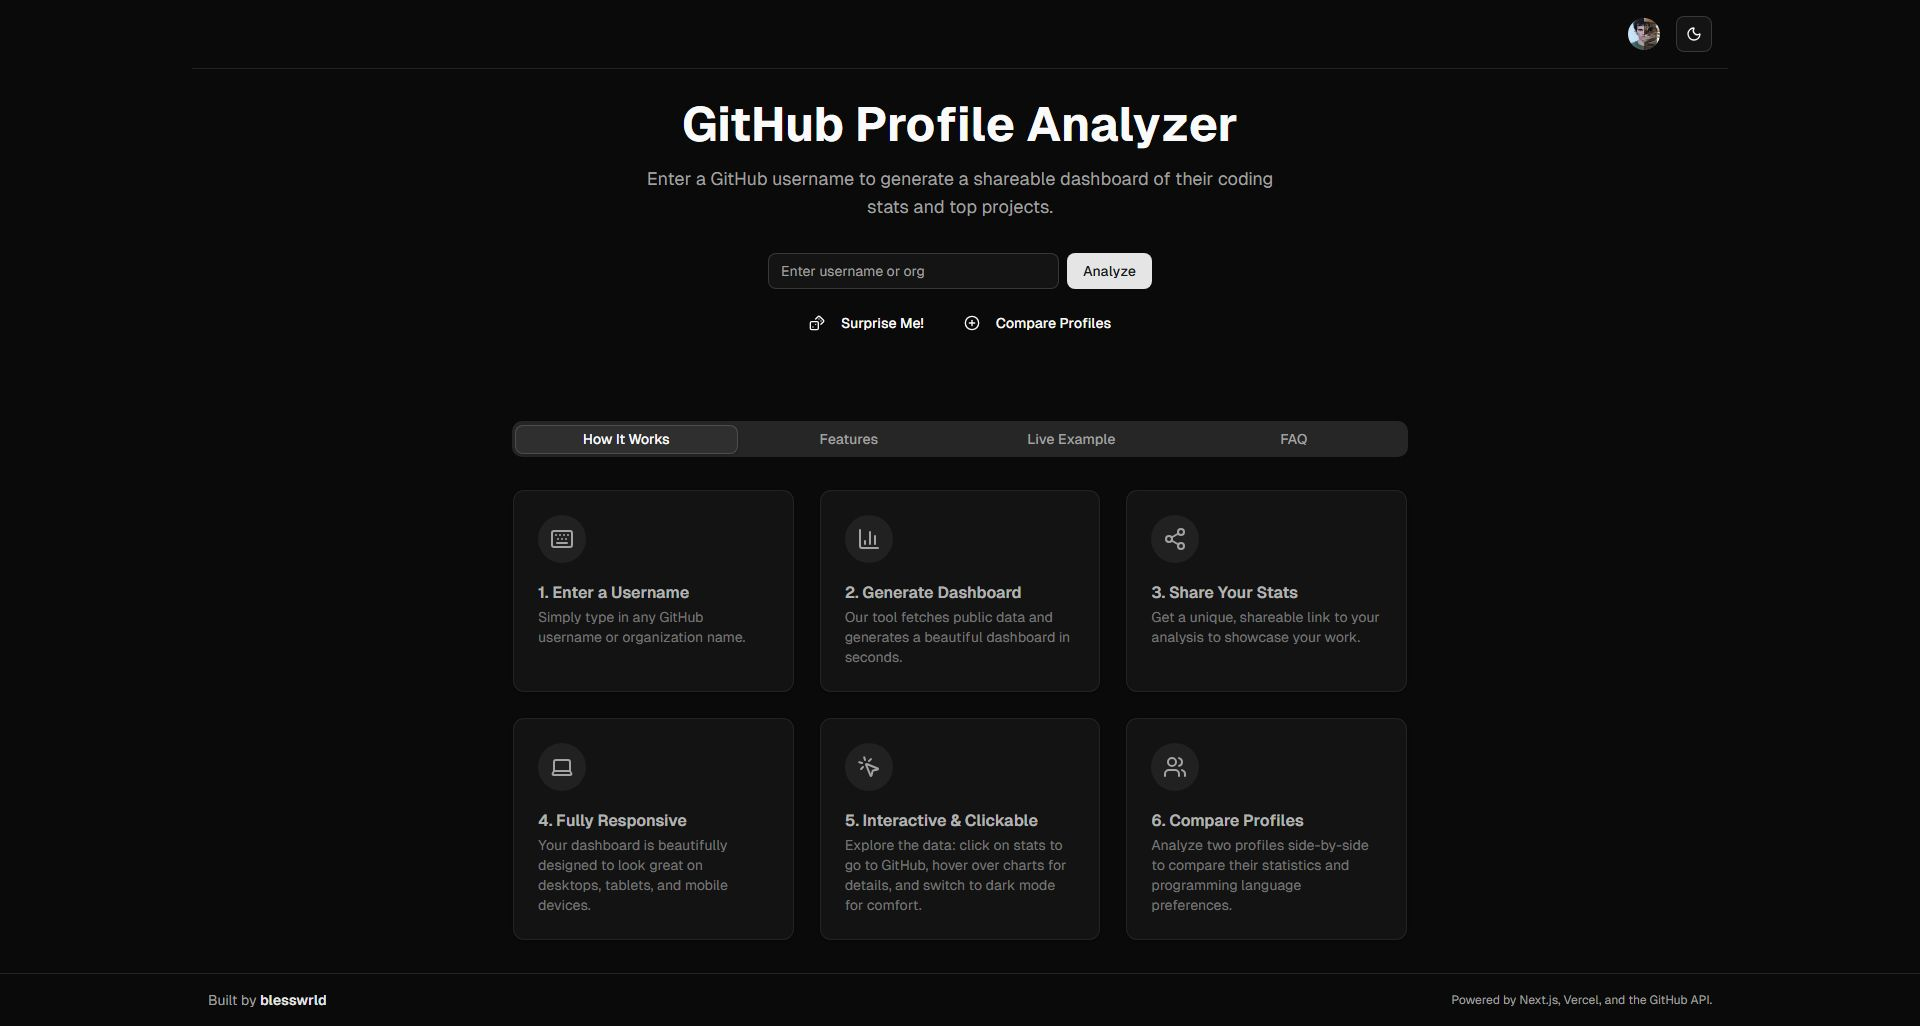
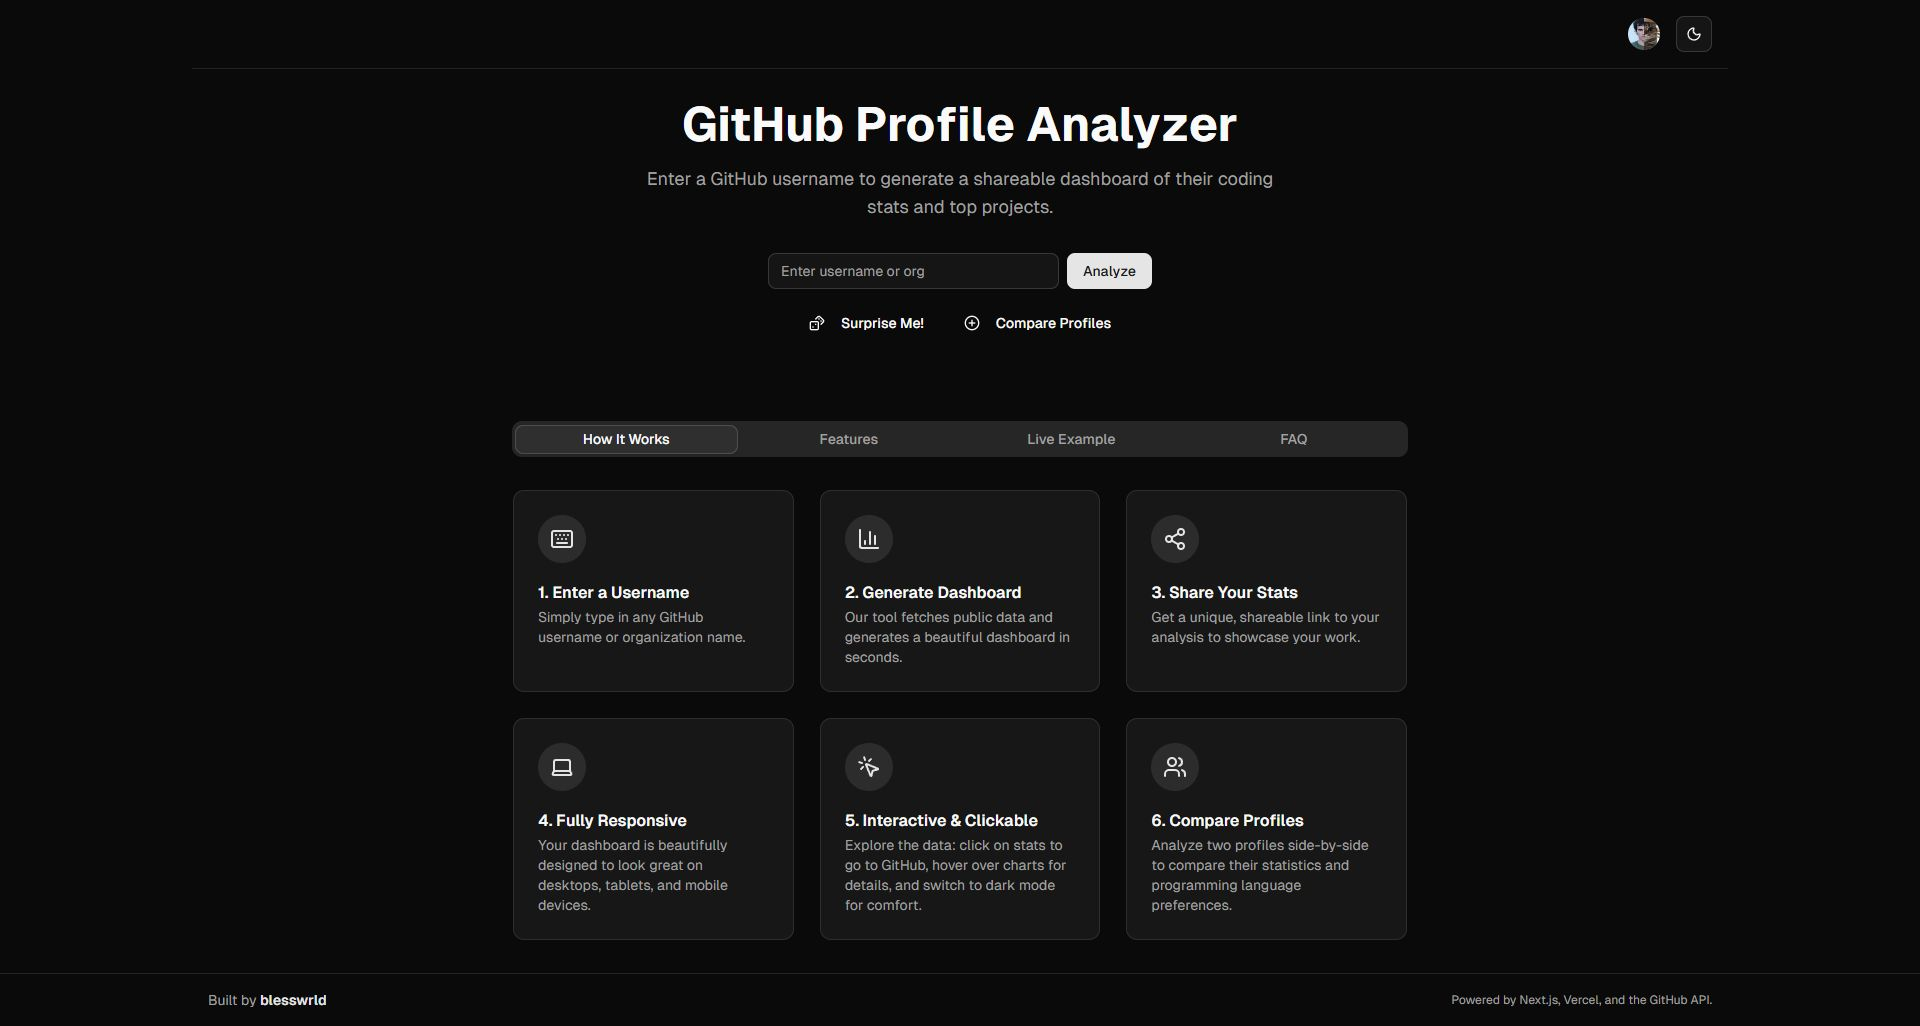
update images, fix some styles

diff --git a/app/page.js b/app/page.js
@@ -118,7 +118,7 @@ export default function HomePage() {
                             {tabs.map(({ name }) => (
                                 <Tab
                                     key={name}
-                                    className="rounded-fuwll px-4 py-1.5 text-sm font-semibold text-white focus:outline-none data-[hover]:bg-white/10 data-[selected]:bg-white/20 data-[focus]:ring-2 data-[focus]:ring-white"
+                                    className="rounded-full px-4 py-1.5 text-sm font-semibold text-white focus:outline-none data-[hover]:bg-white/10 data-[selected]:bg-white/20 data-[focus]:ring-2 data-[focus]:ring-white"
                                 >
                                     {name}
                                 </Tab>
